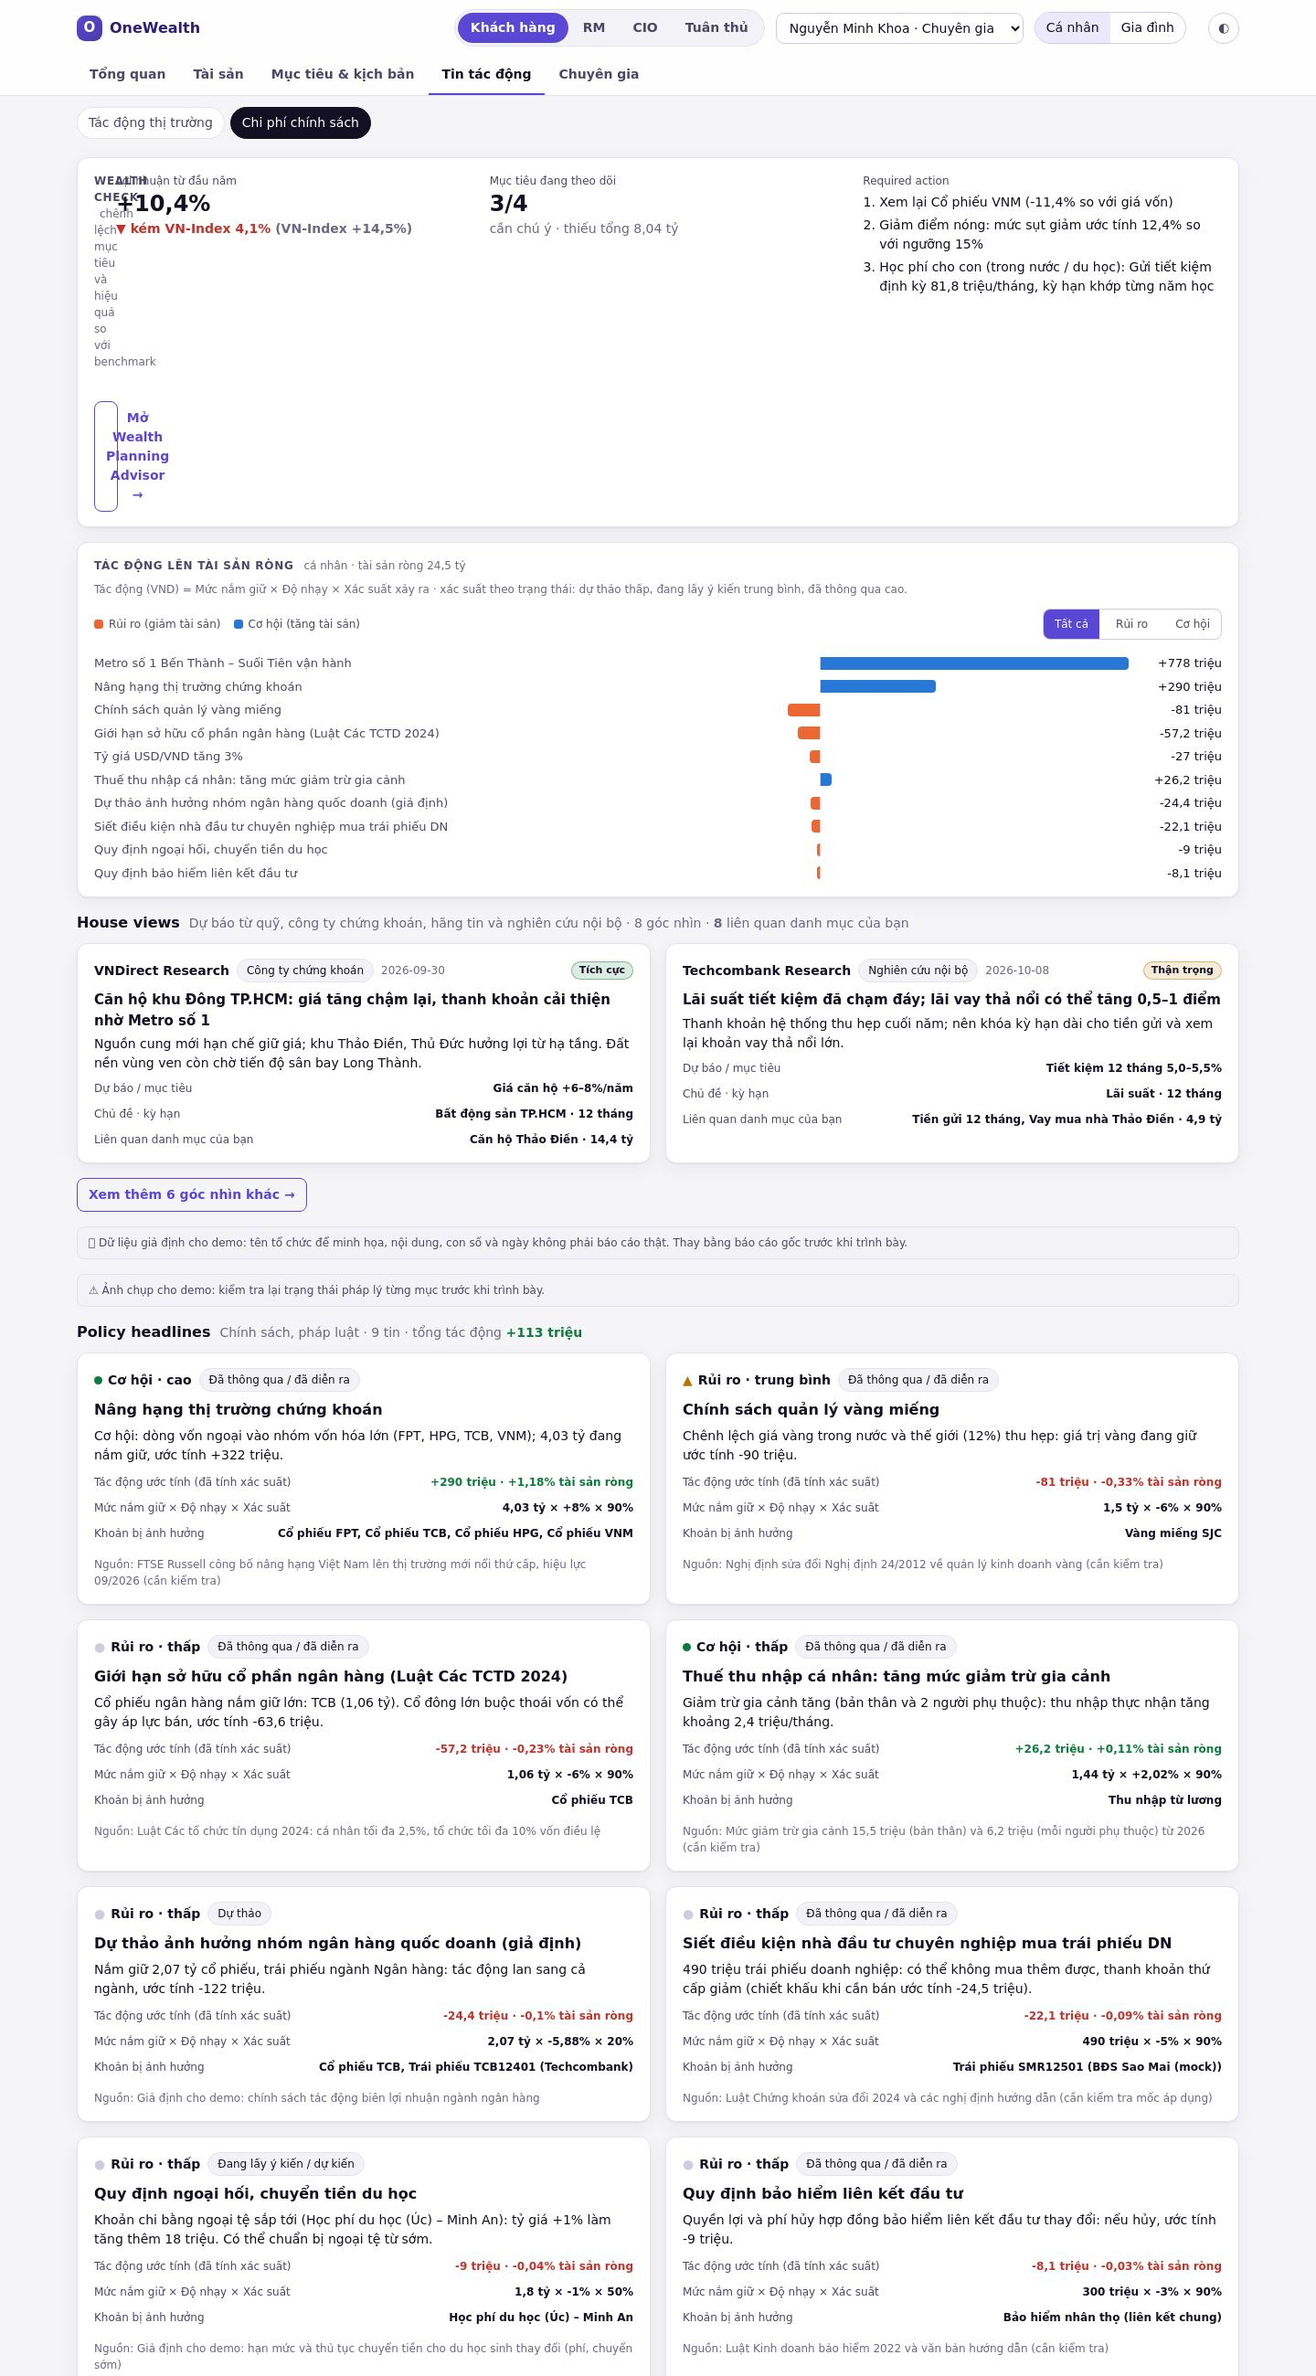
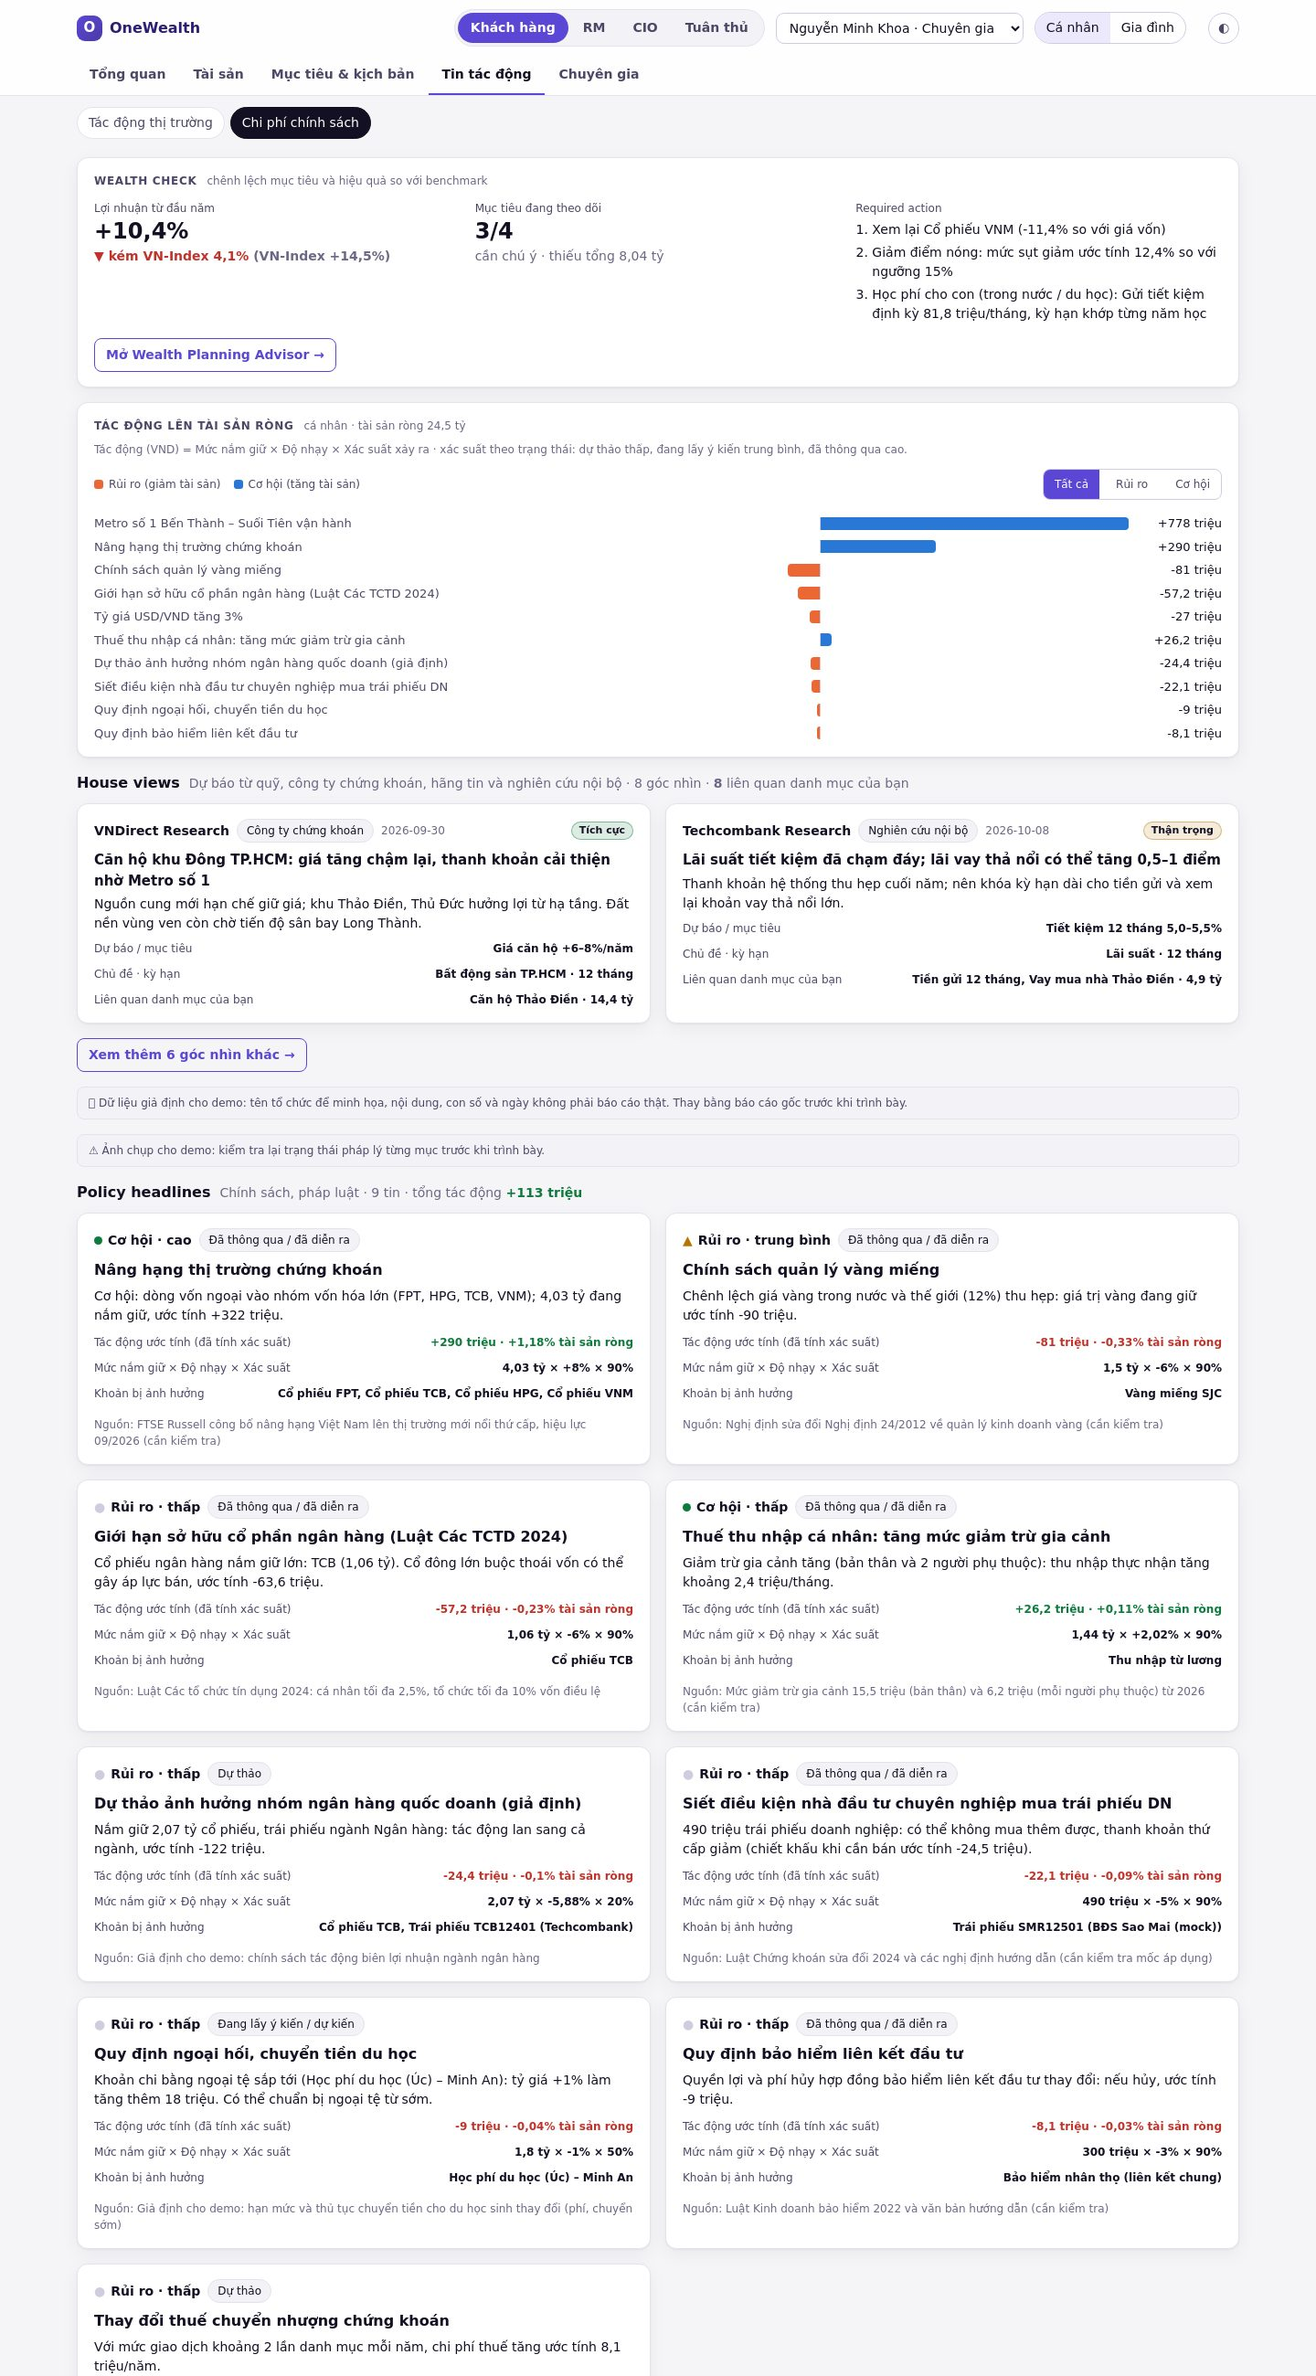
fix: DEF-01 the new pages' .check rule no longer squeezes the legacy Wealth check card; DEF-04 AUDIT_HMAC_KEY in .env.example; DEF-05 no advisory entry after the data date, the track record labelled illustrative (Q-19); docs/TO_DISCUSS.md for the owner's open decisions

diff --git a/web/index.html b/web/index.html
@@ -6,8 +6,8 @@
 <title>OneWealth</title>
 <meta name="description" content="Bức tranh toàn cảnh tài sản của khách hàng, và tin tức đang tác động tới nó.">
 <script>try { const t = localStorage.getItem("mf.theme"); if (t) document.documentElement.dataset.theme = t; } catch (_) {}</script>
-<link rel="stylesheet" href="app.css?v=20261015b">
-<link rel="stylesheet" href="core/tokens.css?v=20261015b">
+<link rel="stylesheet" href="app.css?v=20261015c">
+<link rel="stylesheet" href="core/tokens.css?v=20261015c">
 </head>
 <body>
 <header class="shell-top">
@@ -43,9 +43,9 @@
 <footer class="foot">Dữ liệu khách hàng và giá là mô phỏng; tin tức lấy từ nguồn công khai; tham số mô hình là giả định.
   Nội dung không phải khuyến nghị đầu tư. Bộ chuyển vai trò chỉ để demo, không phải cơ chế bảo mật.
   <button type="button" id="reset" class="linkbtn">Làm lại demo</button></footer>
-<script src="fmt.js?v=20261015b"></script>
-<script src="charts.js?v=20261015b"></script>
-<script src="app.js?v=20261015b"></script>
-<script type="module" src="shell.js?v=20261015b"></script>
+<script src="fmt.js?v=20261015c"></script>
+<script src="charts.js?v=20261015c"></script>
+<script src="app.js?v=20261015c"></script>
+<script type="module" src="shell.js?v=20261015c"></script>
 </body>
 </html>

diff --git a/web/core/tokens.css b/web/core/tokens.css
@@ -267,6 +267,6 @@ details.more > summary::before { content: "▸ "; } details.more[open] > summary
 .editing-only { display: none; }
 .editing .editing-only { display: revert; }
 .editing .editing-only.row, .editing .row.editing-only { display: flex; }
-.check { display: grid; grid-template-columns: 18px minmax(0, 1fr); gap: 6px; align-items: start; }
+#page-new .check { display: grid; grid-template-columns: 18px minmax(0, 1fr); gap: 6px; align-items: start; }
 .item > * { min-width: 0; }
 #page-new input[data-note], #page-new input[data-resp] { min-width: 140px !important; }

diff --git a/web/shell.js b/web/shell.js
@@ -133,7 +133,7 @@ async function route() {
   const seq = ++state.seq;
   box.innerHTML = loading();
   try {
-    const mod = pages[target.page] || (pages[target.page] = await import(`./pages/${target.page}.js?v=20261015b`));
+    const mod = pages[target.page] || (pages[target.page] = await import(`./pages/${target.page}.js?v=20261015c`));
     if (seq !== state.seq) return;
     await mod.render(box, ctx(rt));
   } catch (e) {

diff --git a/scripts/make_advisory.py b/scripts/make_advisory.py
@@ -188,9 +188,12 @@ def track(cid: str, rng: random.Random) -> dict:
     for month, agent, text, outcome, value in ADVICE:
         if rng.random() < 0.12:  # not every client got every call
             continue
+        day = rng.randint(3, 27)
+        if month == AS_OF[:7]:  # nothing dated after the data date (DEF-05)
+            day = min(day, int(AS_OF[8:]))
         advice.append(
             {
-                "date": f"{month}-{rng.randint(3, 27):02d}",
+                "date": f"{month}-{day:02d}",
                 "agent": agent,
                 "text": text,
                 "outcome": outcome,
@@ -294,7 +297,7 @@ def main() -> None:
     rng = random.Random(20261013)
     out = {
         "as_of": AS_OF,
-        "note": "Dữ liệu giả định cho demo: tên, số điện thoại, e-mail, địa chỉ và kết quả tư vấn đều không có thật.",
+        "note": "Dữ liệu giả định cho demo: tên, số điện thoại, e-mail, địa chỉ và kết quả tư vấn đều không có thật. Đây là minh họa, không phải số liệu theo dõi độ chính xác của nhận định.",
         "team": {cid: team(cid) for cid in CLIENTS},
         "tracking": {cid: track(cid, rng) for cid in CLIENTS},
     }

diff --git a/tests/test_app.py b/tests/test_app.py
@@ -60,3 +60,12 @@ def test_the_advisory_record_over_every_client():
         assert out["summary"]["advice"] > one["advice"]
         assert {a["id"] for a in out["agents"]} == {"news", "impact", "planner", "chat"}
         assert out["advice"][0]["date"] >= out["advice"][-1]["date"] and all(a["client"] for a in out["advice"])
+
+
+def test_nothing_in_the_advisory_record_is_dated_after_the_data_date():
+    import json
+    import re
+
+    raw = (SAMPLES.parent / "advisory.json").read_text(encoding="utf-8")
+    as_of = json.loads(raw)["as_of"]
+    assert [d for d in re.findall(r"\d{4}-\d{2}-\d{2}", raw) if d > as_of] == []  # DEF-05

diff --git a/docs/brd/testing/regression_coverage.md b/docs/brd/testing/regression_coverage.md
@@ -55,11 +55,11 @@ Not automated beyond `tests/test_web.py`. Recorded manual/scripted checks:
 
 | ID | Found | Where | Defect | Requirement affected | Proposed fix | State |
 |---|---|---|---|---|---|---|
-| DEF-01 | 2026-10-15 | SCR-CL-06 (`web/app.js`, tab `alerts`) | At 1440 px the “Wealth check” card's first column is squeezed: one word per line, a narrow button | usability (BRD-NFR-11) | give the column a minimum width | open |
+| DEF-01 | 2026-10-15 | SCR-CL-06 (`web/app.js`, tab `alerts`) | At 1440 px the “Wealth check” card's first column is squeezed: one word per line, a narrow button | usability (BRD-NFR-11) | give the column a minimum width | fixed 2026-10-15 (root cause: `.check` in `web/core/tokens.css` matched the legacy card; scoped to `#page-new`) |
 | DEF-02 | 2026-10-15 | SCR-CL-07; `src/review` | The RM approval queue is reachable only from the client's “Chuyên gia” menu (the redesign's shell mapped the legacy “RM duyệt” tab to the client only); `review_flow` checks no role, so whoever opens the page can approve | BRIEF-FLOW-02 | add “Duyệt đề xuất” to the RM's “Khách hàng” section; require role `rm` in `review_flow` | fixed 2026-10-15 (role `rm` in `read_decision`; RM menu “Duyệt đề xuất”; client read-only) |
 | DEF-03 | 2026-10-15 | `src/news/ops.py` (`release`, `dismiss`) | Releasing a restricted-list hold and dismissing news check no role: any user id can release a held item | BRD-BR-04, BRD-FR-105, BRD-RULE-ROLE-03 | `roles.require(by, "compliance")` in `release`, `roles.require(by, "cio")` in `dismiss`, and a test for each | fixed 2026-10-15 (`roles.require` in both; tests in `test_news.py`) |
-| DEF-04 | 2026-10-15 | `.env.example` | `AUDIT_HMAC_KEY` is read by the code but not listed | AGENTS.md rule; BRD-RULE-SEC-08 | add the name | open |
-| DEF-05 | 2026-10-15 | `data/advisory.json` | Advisory log entries dated after the data date (e.g. 2026-10-24 vs as-of 2026-10-09) | — (Q-19) | regenerate with past dates; label as illustrative | open |
+| DEF-04 | 2026-10-15 | `.env.example` | `AUDIT_HMAC_KEY` is read by the code but not listed | AGENTS.md rule; BRD-RULE-SEC-08 | add the name | fixed 2026-10-15 |
+| DEF-05 | 2026-10-15 | `data/advisory.json` | Advisory log entries dated after the data date (e.g. 2026-10-24 vs as-of 2026-10-09) | — (Q-19) | regenerate with past dates; label as illustrative | fixed 2026-10-15 (clamped in `scripts/make_advisory.py`; test in `test_app.py`) |
 
 ## Coverage gaps (behaviour with no automated test)
 

diff --git a/docs/brd/ux/screen_inventory.md b/docs/brd/ux/screen_inventory.md
@@ -11,7 +11,7 @@ row: a replaced screen is marked `replaced by SCR-…` and keeps its capabilitie
 | [SCR-CL-03](screens/client.md#scr-cl-03--kế-hoạch-wealth-planning-advisor) | Kế hoạch | client `#/client/muc-tieu/ke-hoach`; RM `…/khach-hang/ke-hoach` | legacy | FEAT-26, 27 | BRIEF-SCEN-* | current | [d](../assets/current_ui/SCR-CL-03_desktop-light.jpg) |
 | [SCR-CL-04](screens/client.md#scr-cl-04--khẩu-vị-rủi-ro-risk-test) | Khẩu vị rủi ro | client `#/client/muc-tieu/khau-vi` | legacy | FEAT-24 | BRIEF-RISK-* | current | [d](../assets/current_ui/SCR-CL-04_desktop-light.jpg) |
 | [SCR-CL-05](screens/client.md#scr-cl-05--tác-động-thị-trường-family-impact-client) | Tác động thị trường | client `#/client/tin/thi-truong` | new | FEAT-13, 10 | BR-08, BR-10, FR-502, §14 flow 2 | current | [d](../assets/current_ui/SCR-CL-05_desktop-light.jpg) [dark](../assets/current_ui/SCR-CL-05_desktop-dark.jpg) [p](../assets/current_ui/SCR-CL-05_phone-light.jpg) |
-| [SCR-CL-06](screens/client.md#scr-cl-06--chi-phí-chính-sách-policy-costs) | Chi phí chính sách | client `#/client/tin/chinh-sach`; RM `…/khach-hang/chinh-sach` | legacy | FEAT-25 | BRIEF-IMPACT-*, BRIEF-ALERT-* | current (DEF-01) | [d](../assets/current_ui/SCR-CL-06_desktop-light.jpg) |
+| [SCR-CL-06](screens/client.md#scr-cl-06--chi-phí-chính-sách-policy-costs) | Chi phí chính sách | client `#/client/tin/chinh-sach`; RM `…/khach-hang/chinh-sach` | legacy | FEAT-25 | BRIEF-IMPACT-*, BRIEF-ALERT-* | current | [d](../assets/current_ui/SCR-CL-06_desktop-light.jpg) |
 | [SCR-CL-07](screens/client.md#scr-cl-07--chuyên-gia-specialist-team) | Chuyên gia | client `#/client/chuyen-gia` | legacy | FEAT-28, 27 | BRIEF-FLOW-02 | current (queue read-only) | [d](../assets/current_ui/SCR-CL-07_desktop-light.jpg) |
 | [SCR-RM-01](screens/rm.md#scr-rm-01--hôm-nay-today) | Hôm nay | RM `#/rm/hom-nay` | new | FEAT-13, 10 | BR-09, FR-503, FR-603 | current | [d](../assets/current_ui/SCR-RM-01_desktop-light.jpg) [p](../assets/current_ui/SCR-RM-01_phone-light.jpg) |
 | [SCR-RM-02](screens/rm.md#scr-rm-02--tác-động-tin-family-impact-staff) | Tác động tin | RM `#/rm/khach-hang/tac-dong` | new | FEAT-13, 09, 10 | BR-12, FR-404, FR-406, FR-601 | current | [d](../assets/current_ui/SCR-RM-02_desktop-light.jpg) [p](../assets/current_ui/SCR-RM-02_phone-light.jpg) |

diff --git a/docs/brd/requirements/open_questions.md b/docs/brd/requirements/open_questions.md
@@ -26,7 +26,7 @@ product differs from a source, knowingly) · **gap** (required, not built — fo
 | Q-16 | gap | Brief: re-asking the risk test on triggers | open |
 | Q-17 | gap | RM sees only their own families: the demo has one RM and no assignment | open |
 | Q-18 | divergence | 20 mock families (BRD) vs 5 clients + 2 spouses here | resolved (ADR-0005) |
-| Q-19 | divergence | The advisory track record is mock, with dates after today | open |
+| Q-19 | divergence | The advisory track record is mock and could be read as BR-15 | resolved (labelled; dates fixed) |
 | Q-20 | gap | FR-603 “tab Mục tiêu”: the goal branch is not on the client's Goals/Plan tab | open |
 | Q-21 | divergence | The client view exists although the BRD puts client delivery in the pilot phase | resolved (ADR-0008) |
 | Q-22 | divergence | Factor-model parameters are assumed, not estimated | resolved (ADR-0004); estimation blocked |
@@ -114,6 +114,7 @@ product differs from a source, knowingly) · **gap** (required, not built — fo
 ### Q-19 — The advisory track record
 - **Fact:** “Hiệu quả tư vấn” ([SCR-RM-05](../assets/current_ui/SCR-RM-05_desktop-light.jpg)) shows recommendations, accuracy (75 %), money gained/lost, missed news and AI pipeline scores, from `data/advisory.json` (mock, labelled “Dữ liệu giả định cho demo”). Some entries are dated after the demo's date (e.g. 2026-10-24 when the data is as of 2026-10-09).
 - **Risk:** it can be mistaken for BR-15 (accuracy over time), which is **not built**. Proposed: say on the page that it is illustrative and is not BR-15; fix the dates. Owner: product.
+- **Resolution (2026-10-15):** the page note now says “minh họa, không phải số liệu theo dõi độ chính xác của nhận định”; dates clamped to the data date (DEF-05, `tests/test_app.py::test_nothing_in_the_advisory_record_is_dated_after_the_data_date`).
 
 ### Q-20 — The goal branch on the Goals tab (FR-603)
 - **Fact:** FR-603: show on the RM home, the Goals tab, and the Research page. The product shows it on RM “Hôm nay”, on “Tin tác động” (client and RM) and on “Nghiên cứu”. The client's “Mục tiêu & kịch bản → Kế hoạch” tab (goal planning) does not show it.

diff --git a/docs/TO_DISCUSS.md b/docs/TO_DISCUSS.md
@@ -1,0 +1,10 @@
+# To discuss with the owner
+
+Only what needs the owner's decision and could matter if left wrong. Everything else is decided in the plans,
+`docs/brd/decisions/` and `docs/brd/requirements/open_questions.md`. Newest first; an item stays here, marked
+**decided**, once answered.
+
+| # | Raised | Question | Why it matters | What I did meanwhile |
+|---|---|---|---|---|
+| D-01 | 2026-10-15 | The BRD's requirement texts are quoted verbatim in this **public** repository (`docs/brd/requirements/`, ADR-0001). Keep, paraphrase, or make the repo private? | Quoting is itself a disclosure of the document, even though the `.docx` is not committed and it carries no confidentiality mark | Kept the quotes (same practice as `docs/NEWS_IMPACT_PLAN.md`) |
+| D-02 | 2026-10-15 | FR-404 goal impact: the BRD gives no thresholds or funding source. Accept our rule (goals draw in date order on financial assets; level = monthly saving needed ÷ surplus, ≤ 0.6 Đạt, ≤ 1 Theo dõi) or give the CIO's? | With our rule every demo goal stays 100 % Đạt, so the feature looks inert in a demo | Built on our rule, labelled “đề xuất, chờ CIO xác nhận” on the page (Q-11) |

diff --git a/docs/brd/ux/screens/client.md b/docs/brd/ux/screens/client.md
@@ -169,8 +169,8 @@ advisor); **Tác động lên tài sản ròng** (diverging bars per policy, fil
 legal-status notes; **Policy headlines** — one card per policy with level, legal status, the impact (with
 probability), holding × sensitivity × probability, the holdings touched, the source line.
 
-**Known defect DEF-01.** At 1440 px the “Wealth check” card's first column is squeezed: the label wraps one word
-per line and the “Mở Wealth Planning Advisor” button is a narrow column (visible in the screenshot).
+**DEF-01 (fixed 2026-10-15).** The “Wealth check” card was squeezed into an 18 px column at 1440 px: the new pages'
+`.check` checklist rule (`web/core/tokens.css`) also matched this legacy card. The rule is now scoped to `#page-new`.
 
 ---
 

diff --git a/docs/brd/CHANGELOG.md b/docs/brd/CHANGELOG.md
@@ -2,6 +2,10 @@
 
 Newest first. One line per meaningful change: date — what — documents touched.
 
+- 2026-10-15 — Fixed DEF-01 (`.check` scoped to new pages), DEF-04 (`AUDIT_HMAC_KEY` in `.env.example`), DEF-05
+  (advisory dates; page labelled illustrative, Q-19 resolved) — regression_coverage, client.md, rm.md, inventory,
+  FEAT-25, FEAT-28, open_questions, SCR-CL-06 screenshot.
+
 - 2026-10-15 — Fixed DEF-02 (RM decides on new SCR-RM-06, role-checked; client queue read-only) and DEF-03 (news
   dismiss/release role-checked); built FR-404 goal impact per run on our definition (Q-11) — matrix (BR-04, BR-08,
   FR-103, FR-105, FR-404, RULE-ROLE-03, RULE-SEC-02, BRIEF-SCEN-03, BRIEF-FLOW-02), FEAT-02, 08, 12, 27, screens

diff --git a/AGENTS.md b/AGENTS.md
@@ -28,6 +28,7 @@ demo is `docs/DEMO.md` (and `tests/test_demo.py` walks it).
 feature behaves (Layer B), the screens (Layer C), decisions, and the traceability matrix — the only place a
 requirement's status is stated. When you change behaviour, a screen, an API or a rule, update the affected
 documents as `docs/brd/MAINTAINING.md` says; `tests/test_brd_docs.py` fails if links, IDs or cited tests drift.
+Decisions that only the owner can take, and that would be risky to get wrong, wait in `docs/TO_DISCUSS.md`.
 
 ## Before you write code
 
